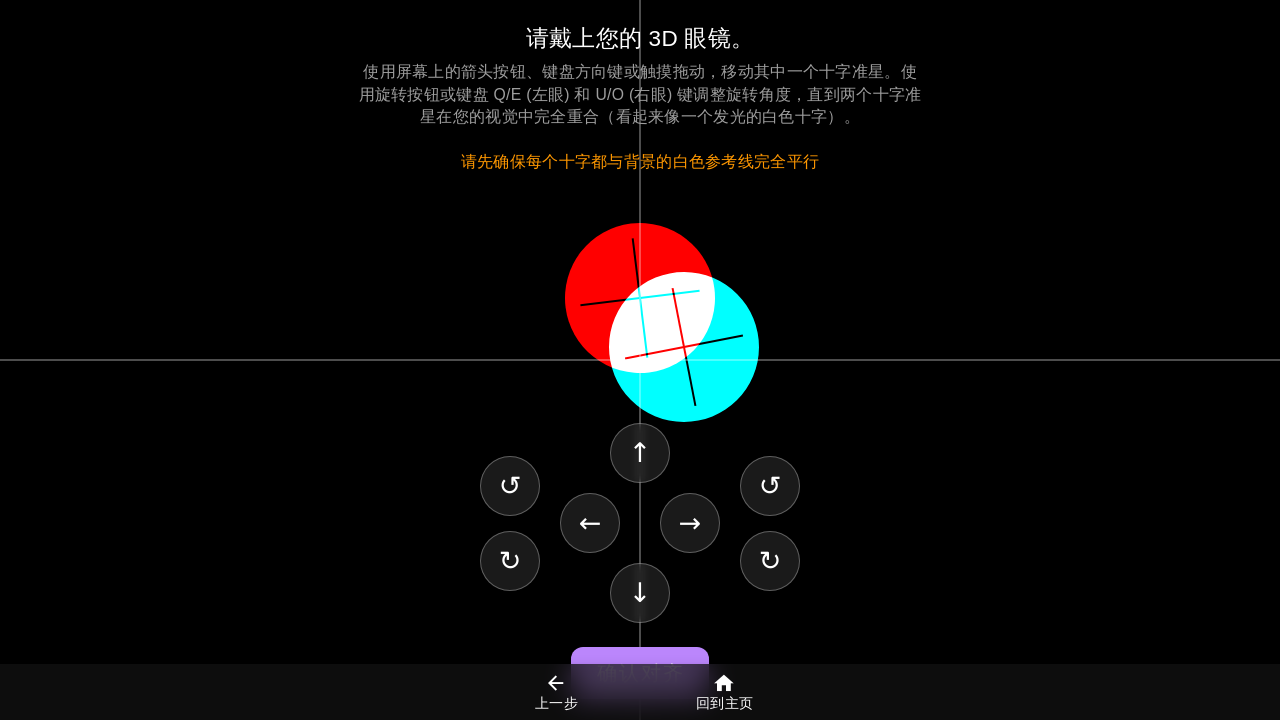
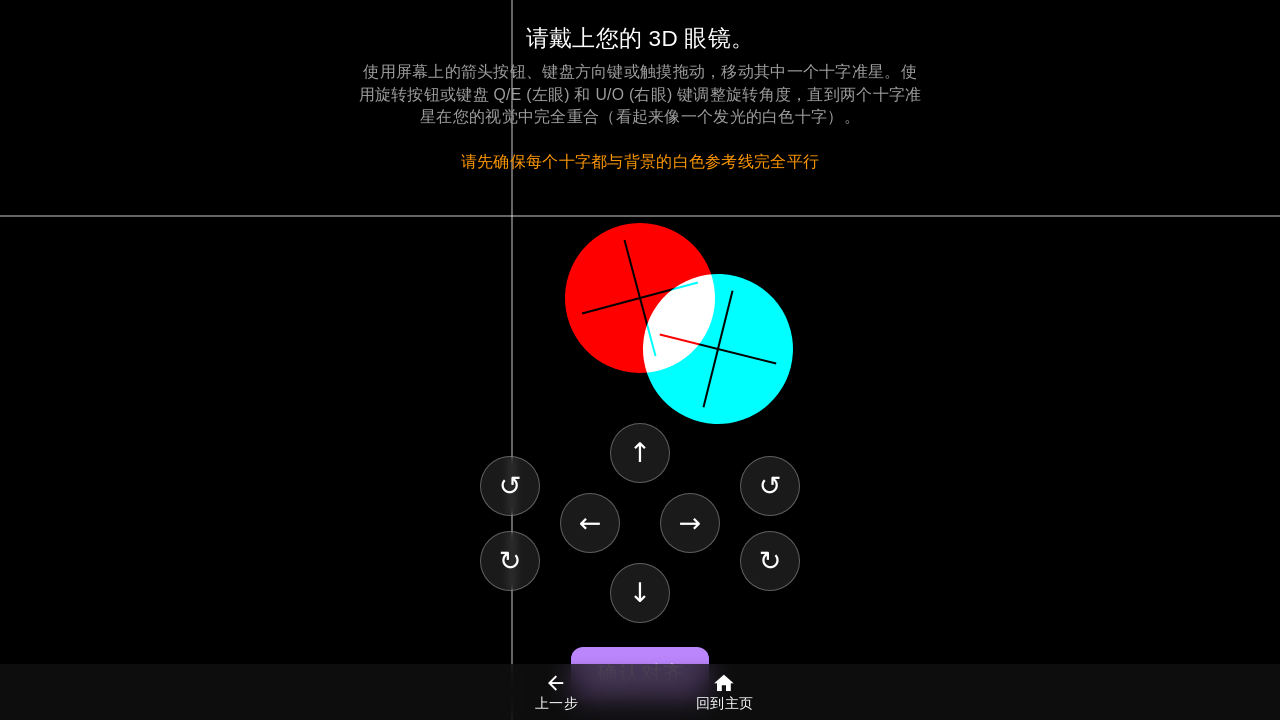
fix: allow breaking out of magnetic snap and offset reference crossline to encourage user alignment

diff --git a/src/views/exercises/AlignmentExercise.vue b/src/views/exercises/AlignmentExercise.vue
@@ -197,39 +197,39 @@ const handleKeyDown = (e: KeyboardEvent) => {
   const step = 0.5
   switch (e.key) {
     case 'ArrowUp':
-      position.value.y -= step
+      moveBox(0, -step)
       e.preventDefault()
       break
     case 'ArrowDown':
-      position.value.y += step
+      moveBox(0, step)
       e.preventDefault()
       break
     case 'ArrowLeft':
-      position.value.x -= step
+      moveBox(-step, 0)
       e.preventDefault()
       break
     case 'ArrowRight':
-      position.value.x += step
+      moveBox(step, 0)
       e.preventDefault()
       break
     case 'q':
     case 'Q':
-      position.value.rLeft -= step
+      rotateLeftBox(-0.2)
       e.preventDefault()
       break
     case 'e':
     case 'E':
-      position.value.rLeft += step
+      rotateLeftBox(0.2)
       e.preventDefault()
       break
     case 'u':
     case 'U':
-      position.value.rRight -= step
+      rotateRightBox(-0.2)
       e.preventDefault()
       break
     case 'o':
     case 'O':
-      position.value.rRight += step
+      rotateRightBox(0.2)
       e.preventDefault()
       break
   }
@@ -240,23 +240,43 @@ const handleKeyUp = () => {
 }
 
 const applyMagneticSnap = () => {
+  // Check translation
   if (Math.abs(position.value.x) <= 1.5) position.value.x = 0
   if (Math.abs(position.value.y) <= 1.5) position.value.y = 0
+  // Check rotation
   if (Math.abs(position.value.rLeft) <= 0.4) position.value.rLeft = 0
   if (Math.abs(position.value.rRight) <= 0.4) position.value.rRight = 0
 }
 
 const moveBox = (dx: number, dy: number) => {
-  position.value.x += dx
-  position.value.y += dy
+  // If it was magnetically snapped to 0, pressing a key should break it out of the snap
+  if (position.value.x === 0 && dx !== 0) {
+    position.value.x = dx > 0 ? 1.6 : -1.6
+  } else {
+    position.value.x += dx
+  }
+  
+  if (position.value.y === 0 && dy !== 0) {
+    position.value.y = dy > 0 ? 1.6 : -1.6
+  } else {
+    position.value.y += dy
+  }
 }
 
 const rotateLeftBox = (dr: number) => {
-  position.value.rLeft += dr
+  if (position.value.rLeft === 0 && dr !== 0) {
+    position.value.rLeft = dr > 0 ? 0.5 : -0.5
+  } else {
+    position.value.rLeft += dr
+  }
 }
 
 const rotateRightBox = (dr: number) => {
-  position.value.rRight += dr
+  if (position.value.rRight === 0 && dr !== 0) {
+    position.value.rRight = dr > 0 ? 0.5 : -0.5
+  } else {
+    position.value.rRight += dr
+  }
 }
 
 let timeoutId: number | undefined
@@ -328,10 +348,10 @@ const handleConfirm = () => {
   left: 0;
   width: 100%;
   height: 100%;
-  /* Using a single vertical and horizontal line intersecting at center */
+  /* Offset the reference lines so they don't perfectly overlap with the target cross when centered */
   background-image: 
-    linear-gradient(to right, transparent calc(50% - 1px), rgba(255,255,255,0.3) calc(50% - 1px), rgba(255,255,255,0.3) calc(50% + 1px), transparent calc(50% + 1px)),
-    linear-gradient(to bottom, transparent calc(50% - 1px), rgba(255,255,255,0.3) calc(50% - 1px), rgba(255,255,255,0.3) calc(50% + 1px), transparent calc(50% + 1px));
+    linear-gradient(to right, transparent calc(40% - 1px), rgba(255,255,255,0.4) calc(40% - 1px), rgba(255,255,255,0.4) calc(40% + 1px), transparent calc(40% + 1px)),
+    linear-gradient(to bottom, transparent calc(30% - 1px), rgba(255,255,255,0.4) calc(30% - 1px), rgba(255,255,255,0.4) calc(30% + 1px), transparent calc(30% + 1px));
   z-index: 10; /* Bring it above the canvas area so it's not hidden by the colored boxes */
   pointer-events: none;
 }
